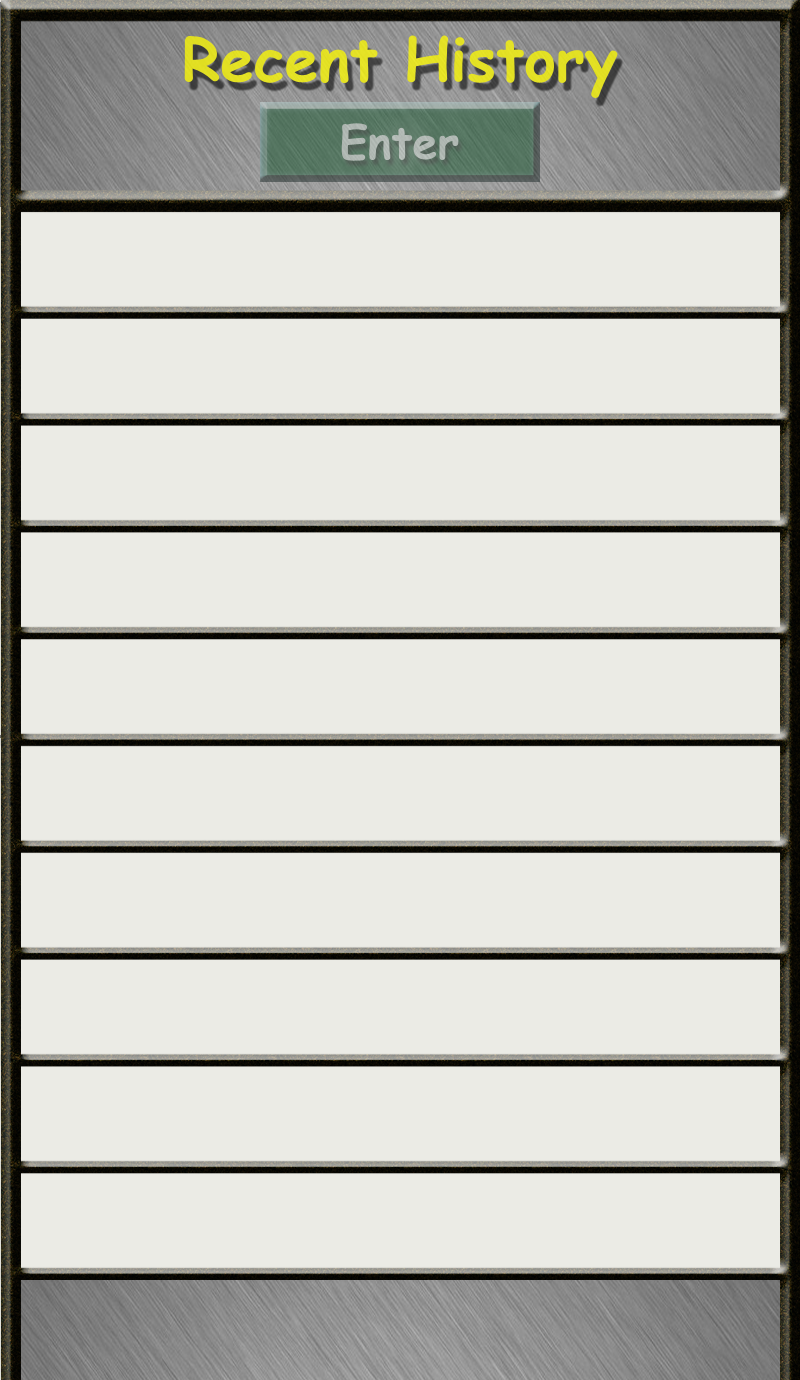
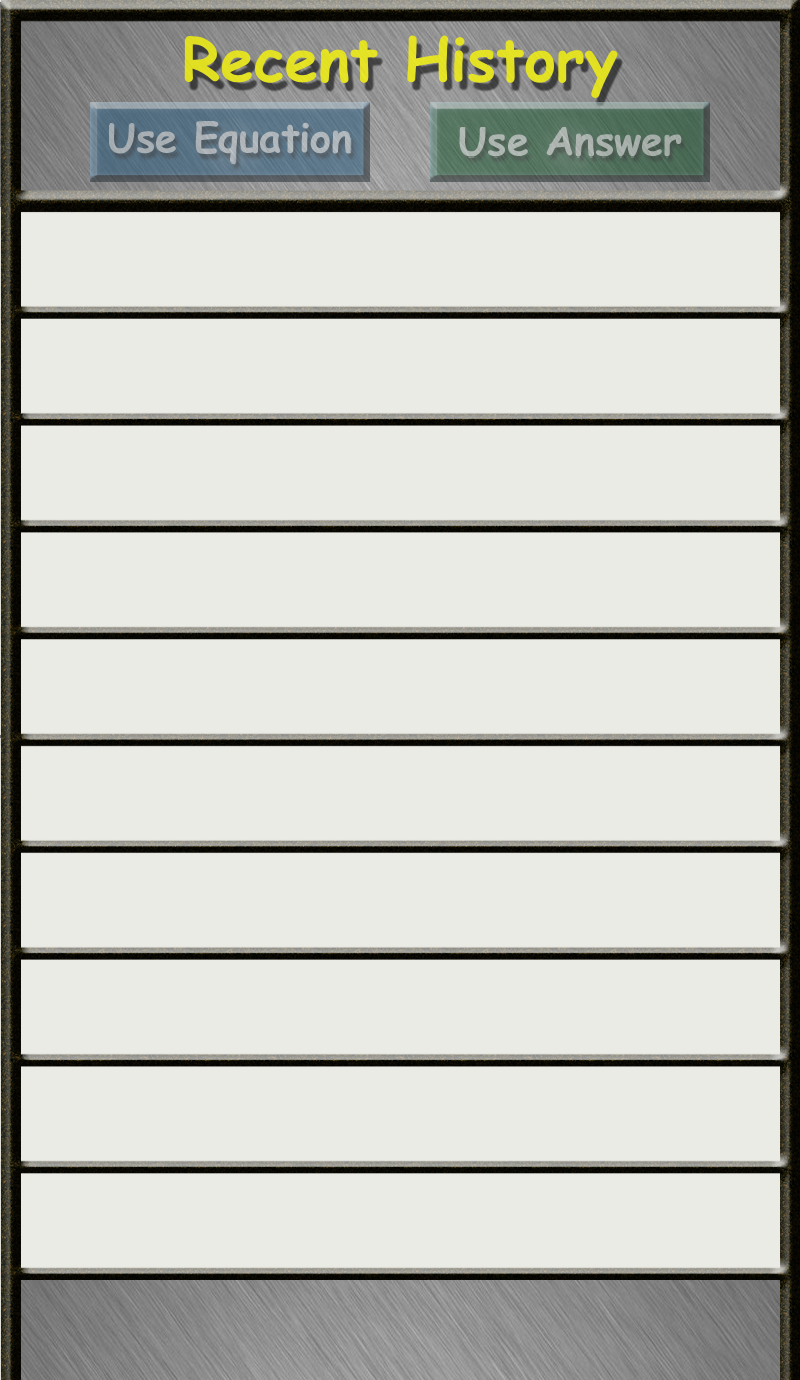
Recent History: Option to Use answer or equation
If there is a hanging operator on the main screen, then it will be
appended to the current equation. Otherwise, the entire thing will be
replaced with the selected choice.

Changed region(s): [[0.0938, 0.0623, 0.9062, 0.1558]]

diff --git a/src/com/RandNprograming/tapemeasurecalculator/calculator/mechanics/CalcHistory.java b/src/com/RandNprograming/tapemeasurecalculator/calculator/mechanics/CalcHistory.java
@@ -1,6 +1,7 @@
 package com.RandNprograming.tapemeasurecalculator.calculator.mechanics;
 
 import com.RandNprograming.tapemeasurecalculator.calculator.screens.MainCalculatorScreen;
+import com.RandNprograming.tapemeasurecalculator.calculator.utilities.ParserConverter;
 import com.RandNprograming.tapemeasurecalculator.impl.AndroidFastRenderView;
 import com.RandNprograming.tapemeasurecalculator.interfaces.Calculator;
 
@@ -60,14 +61,32 @@ public class CalcHistory {
         return sb.toString();
     }
 
-    public static void enter() {
+    public static void useEquation() {
 
         if(selectedIndex < 0 || selectedIndex > CalcHistory.MAX_ENTRIES) {
             return;
         }
 
-        Equation e = CalcHistory.getHistoryAt(selectedIndex);
-        CalcState.equation = e.copy();
+        Equation h = CalcHistory.getHistoryAt(selectedIndex);
+        Equation e = CalcState.equation;
+
+        if(e.isOperatorNext()) {
+            CalcState.equation = h.copy();
+        }
+        else {
+
+            for(int i = 0; i < h.getNumbers().size(); i++) {
+
+                CalcState.equation.setLastNumber(h.getNumbers().get(i));
+
+                if(h.getOperators().size() > i) {
+                    CalcState.addOperator(h.getOperators().get(i));
+                }
+
+            }
+
+        }
+
         CalcState.equation.updateEquation();
         CalcState.paint.update(CalcState.equation.getEquation());
         selectedIndex = -1;
@@ -75,13 +94,27 @@ public class CalcHistory {
         c.setScreen(new MainCalculatorScreen(c));
     }
 
-    public static void save() {
+    public static void useAnswer() {
 
         if(selectedIndex < 0 || selectedIndex > CalcHistory.MAX_ENTRIES) {
             return;
         }
 
-        // Currently does nothing
+        Equation h = CalcHistory.getHistoryAt(selectedIndex);
+
+        if(CalcState.equation.isOperatorNext()) {
+            CalcState.clear();
+        }
+
+        String result = ParserConverter.formatToString(h.getResult(), h.getUnitDimension());
+        CalcState.equation.setLastNumber(result);
+
+        CalcState.equation.updateEquation();
+        CalcState.paint.update(CalcState.equation.getEquation());
+        selectedIndex = -1;
+        Calculator c = AndroidFastRenderView.getCalculator();
+        c.setScreen(new MainCalculatorScreen(c));
+
     }
 
 }

diff --git a/src/com/RandNprograming/tapemeasurecalculator/calculator/screens/HistoryScreen.java b/src/com/RandNprograming/tapemeasurecalculator/calculator/screens/HistoryScreen.java
@@ -59,11 +59,11 @@ public class HistoryScreen extends Screen {
             return;
         }
 
-//        Button save = ButtonLayout.historyScreenButtons.get(0);
-        Button enter = ButtonLayout.historyScreenButtons.get(1);
+        Button use_equation = ButtonLayout.historyScreenButtons.get(0);
+        Button use_answer = ButtonLayout.historyScreenButtons.get(1);
 
-//        g.drawPixmap(Assets.history_screen_buttons[0], save.getX(), save.getY());
-        g.drawPixmap(Assets.history_screen_buttons[1], enter.getX(), enter.getY());
+        g.drawPixmap(Assets.history_screen_buttons[0], use_equation.getX(), use_equation.getY());
+        g.drawPixmap(Assets.history_screen_buttons[1], use_answer.getX(), use_answer.getY());
 
         for(Button b : manager.getPressedButtons().values()) {
             if(b.isPressedDown()) {
@@ -112,21 +112,21 @@ public class HistoryScreen extends Screen {
         }
 
         int highlight = Color.argb(64,0,0,255);
-        g.drawRect(20,yCoords[CalcHistory.selectedIndex],762,96,highlight);
+        g.drawRect(20,yCoords[CalcHistory.selectedIndex],762,106,highlight);
     }
 
-    private static int[] yCoords = {212,319,425,532,639,746,853,959,1066,1173};
+    private static int[] yCoords = {207,313,419,525,631,737,843,949,1055,1161};
     public void checkBounds(Input.TouchEvent event) {
 
-//        Button save = ButtonLayout.historyScreenButtons.get(0);
-        Button enter = ButtonLayout.historyScreenButtons.get(1);
+        Button use_equation = ButtonLayout.historyScreenButtons.get(0);
+        Button use_answer = ButtonLayout.historyScreenButtons.get(1);
 
-//        checkButtonBounds(save,event);
-        checkButtonBounds(enter,event);
+        checkButtonBounds(use_equation,event);
+        checkButtonBounds(use_answer,event);
 
         for(int i = 0; i < 10; i++) {
 
-            if(touchIsInBounds(event, 0, yCoords[i], 800, 95) && event.type == Input.TouchEvent.TOUCH_DOWN) {
+            if(touchIsInBounds(event, 0, yCoords[i], 800, 106) && event.type == Input.TouchEvent.TOUCH_DOWN) {
                 selectEquation(i);
             }
         }

diff --git a/src/com/RandNprograming/tapemeasurecalculator/calculator/assets/Assets.java b/src/com/RandNprograming/tapemeasurecalculator/calculator/assets/Assets.java
@@ -49,8 +49,8 @@ public class Assets {
         units[0] = g.newPixmap("buttons/inches_only.png", format);
         units[1] = g.newPixmap("buttons/feet_and_inches.png", format);
 
-        history_screen_buttons[0] = g.newPixmap("buttons/history_save.png", format);
-        history_screen_buttons[1] = g.newPixmap("buttons/history_enter.png", format);
+        history_screen_buttons[0] = g.newPixmap("buttons/history_use_equation.png", format);
+        history_screen_buttons[1] = g.newPixmap("buttons/history_use_answer.png", format);
 
         orderOfOperations[0] = g.newPixmap("buttons/order_of_ops_on.png", format);
         orderOfOperations[1] = g.newPixmap("buttons/order_of_ops_off.png", format);
@@ -91,7 +91,7 @@ public class Assets {
             pressed_buttons_fractionScreen[i] = g.newPixmap(prefix + fractionScreen[i] + suffix, format);
         }
 
-        final String[] historyScreen = {"history_save","history_enter"};
+        final String[] historyScreen = {"history_use_equation","history_use_answer"};
         for(int i = 0; i < historyScreen.length; i++) {
             pressed_buttons_historyScreen[i] = g.newPixmap(prefix + historyScreen[i] + suffix, format);
         }

diff --git a/src/com/RandNprograming/tapemeasurecalculator/calculator/buttons/ButtonLayout.java b/src/com/RandNprograming/tapemeasurecalculator/calculator/buttons/ButtonLayout.java
@@ -62,9 +62,8 @@ public class ButtonLayout {
 
     private static void setupHistoryScreenButtons() {
 
-        historyScreenButtons.add(new Button(90,102,280,80,60,85,340,114,ButtonAction.HistoryAction.SAVE));
-//        historyScreenButtons.add(new Button(430,102,280,80,400,85,340,114,ButtonAction.HistoryAction.ENTER));
-        historyScreenButtons.add(new Button(260,102,280,80,230,85,340,114,ButtonAction.HistoryAction.ENTER));
+        historyScreenButtons.add(new Button(90,102,280,80,60,85,340,114,ButtonAction.HistoryAction.USE_EQUATION));
+        historyScreenButtons.add(new Button(430,102,280,80,400,85,340,114,ButtonAction.HistoryAction.USE_ANSWER));
     }
 
 

diff --git a/src/com/RandNprograming/tapemeasurecalculator/calculator/buttons/ButtonAction.java b/src/com/RandNprograming/tapemeasurecalculator/calculator/buttons/ButtonAction.java
@@ -198,15 +198,13 @@ public interface ButtonAction {
     //  History Action
     //------------------------------
     public static enum HistoryAction implements ButtonAction {
-        SAVE, ENTER;
+        USE_EQUATION, USE_ANSWER;
 
         @Override
         public void performAction() {
             switch (this) {
-                case ENTER: { CalcHistory.enter(); break; }
-                case SAVE: {
-                    break;
-                }
+                case USE_EQUATION: { CalcHistory.useEquation(); break; }
+                case USE_ANSWER: { CalcHistory.useAnswer(); break; }
             }
         }
 
